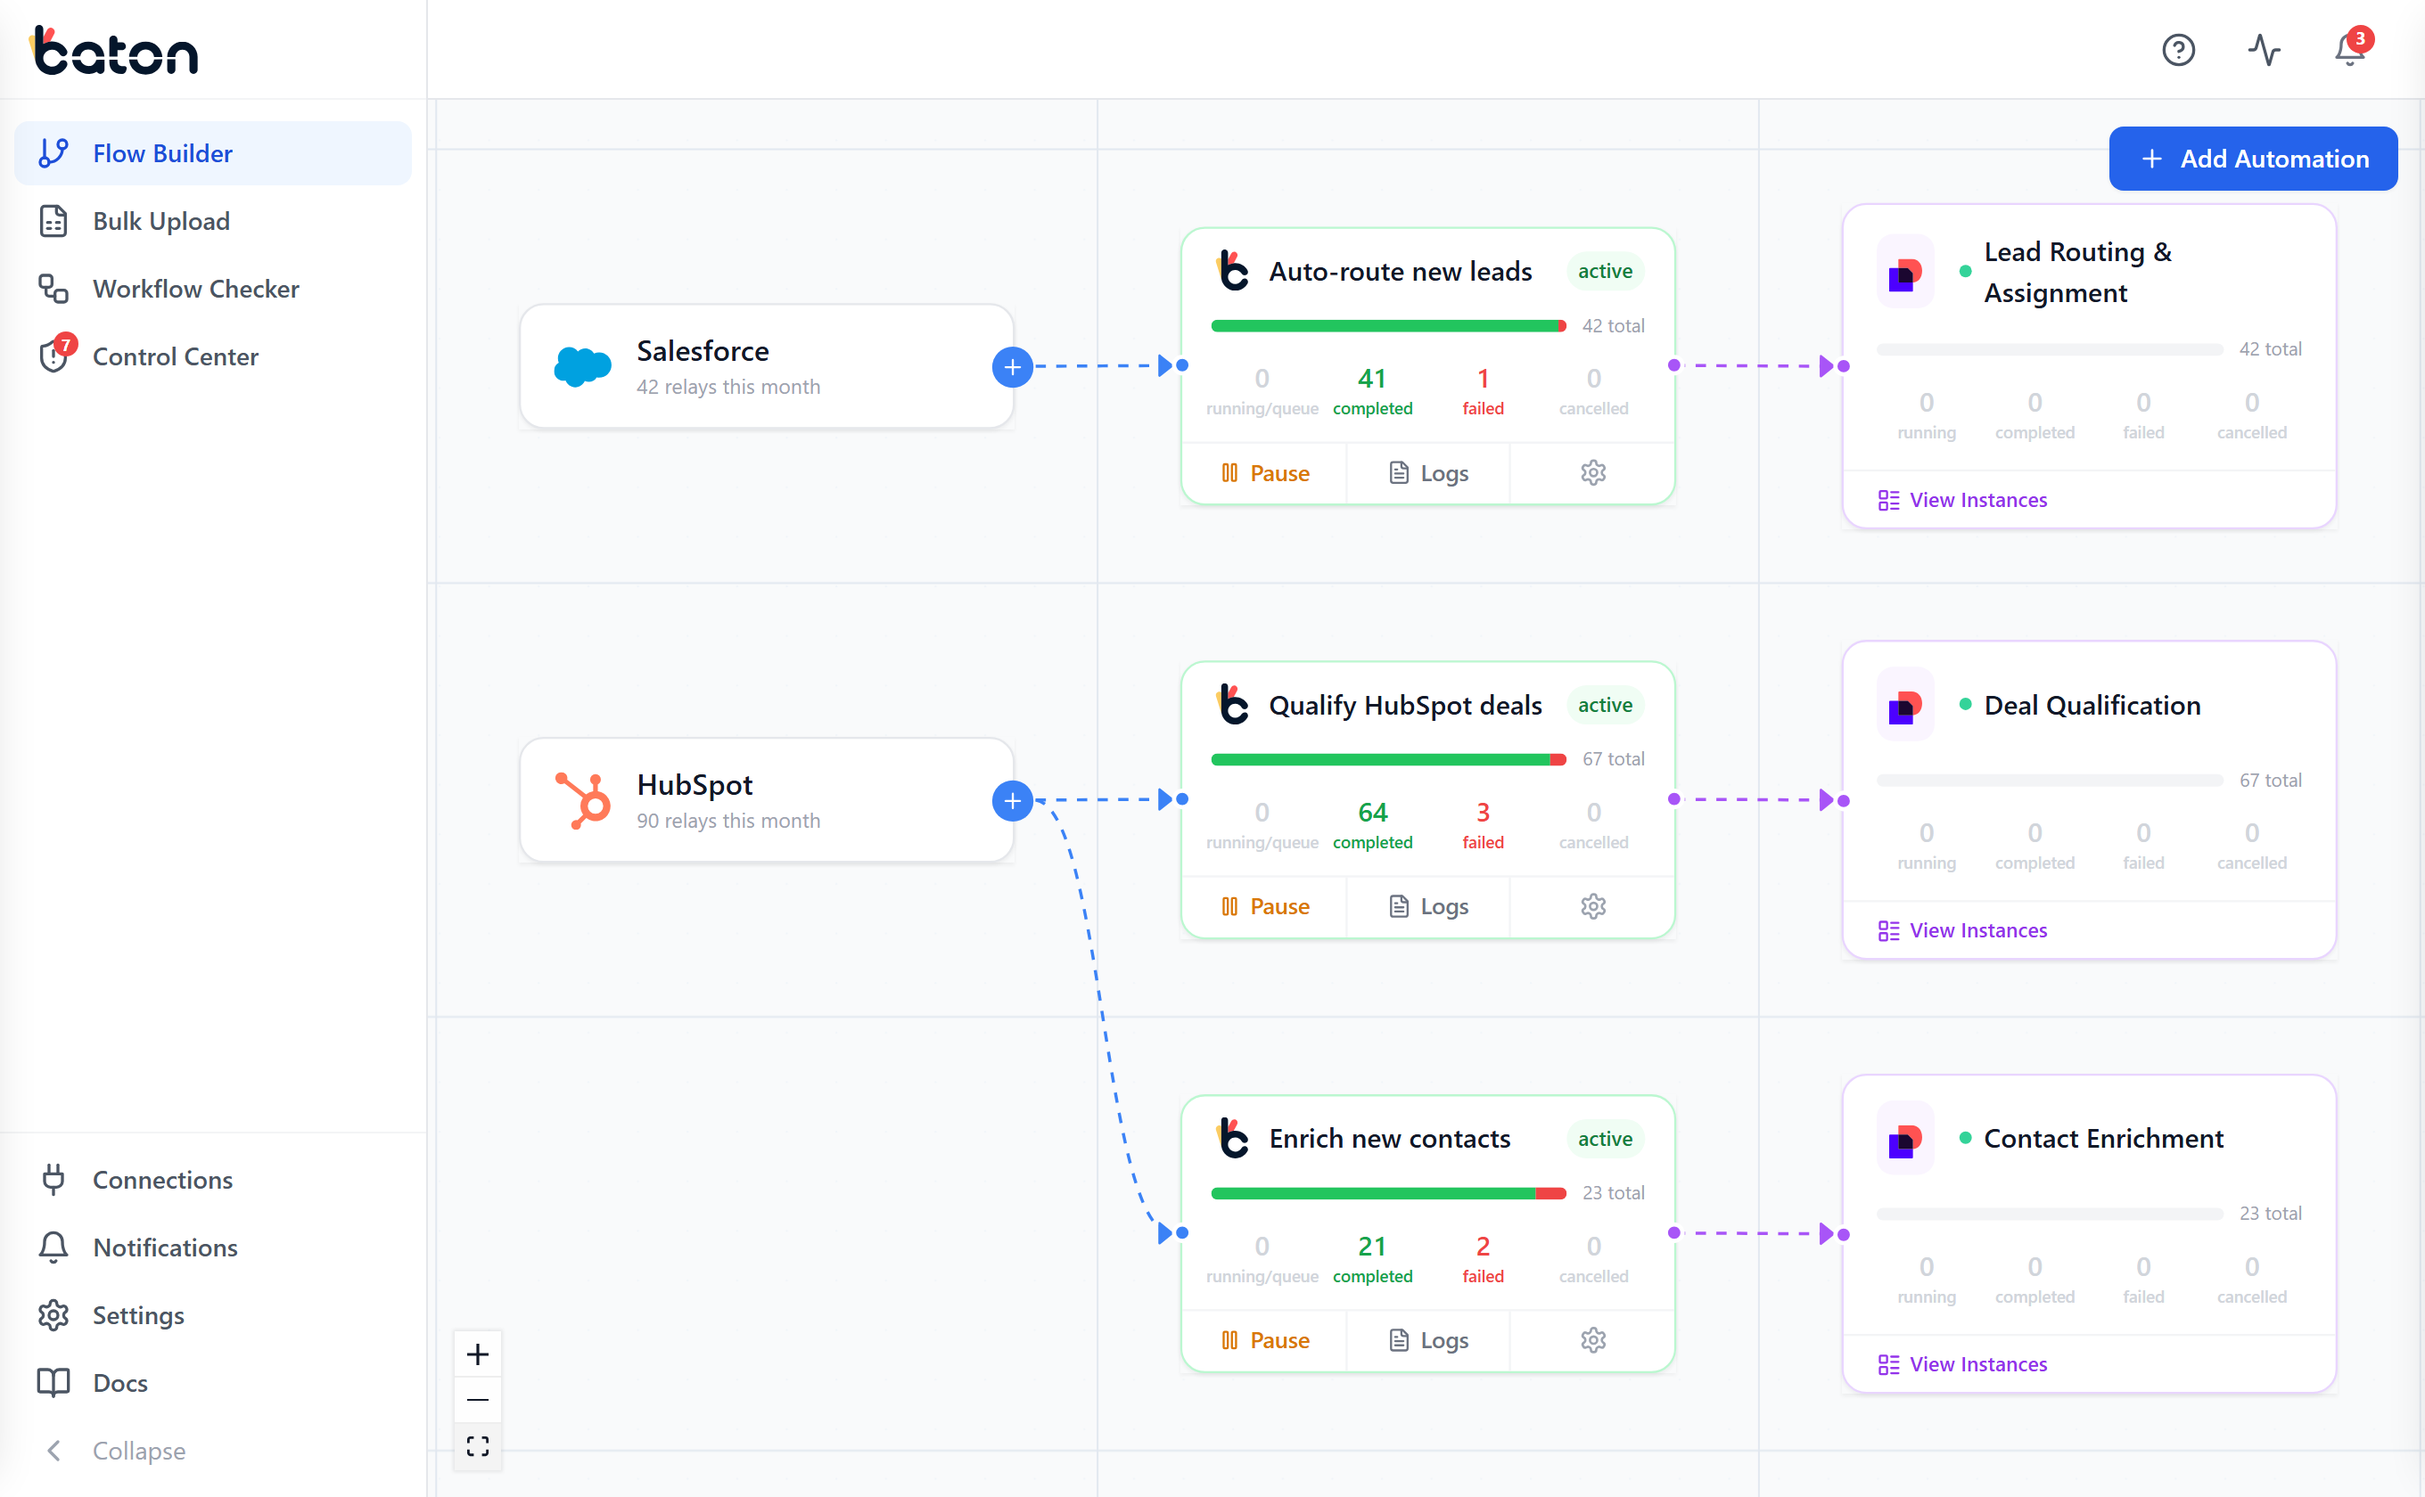
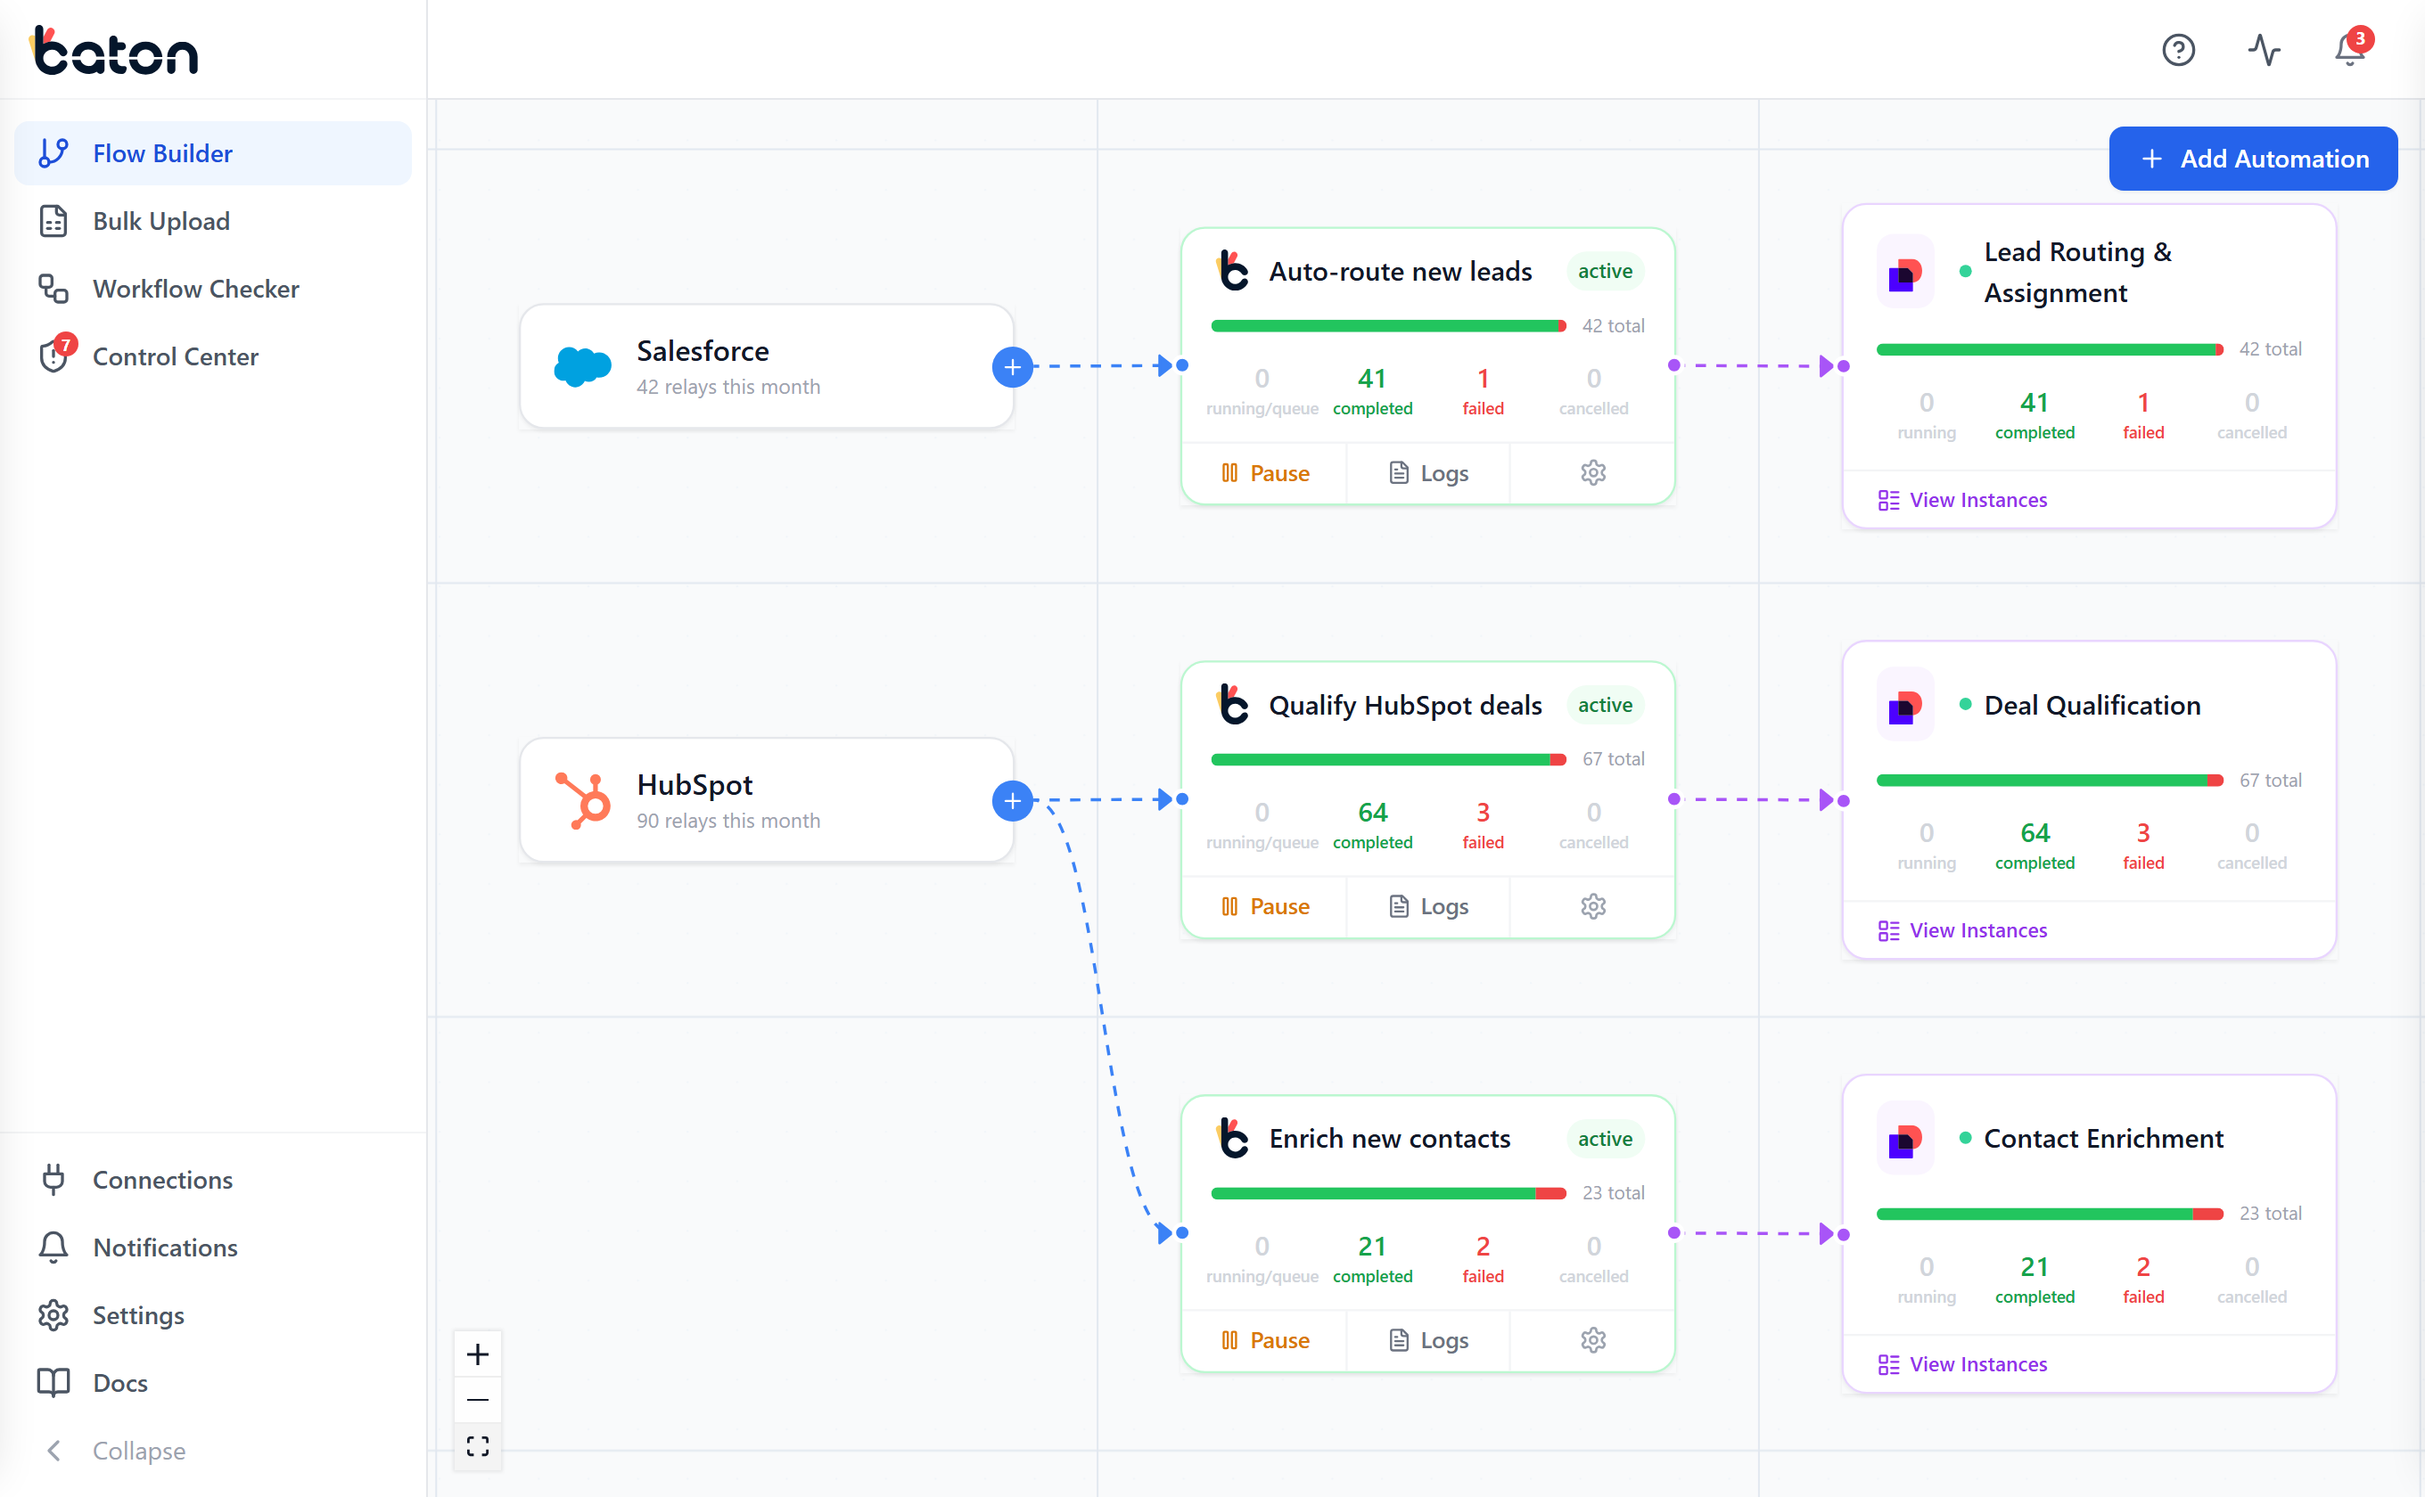
Capture animated product GIFs, and make workflow counts agree
Two fixes to the preview fixtures and a new capture script.

Workflow nodes rendered 0/0/0/0 while the automation feeding them showed
41 completed - the fixtures never served /api/instances/counts, which is
where the canvas gets per-workflow rollups. Added, mirroring the
automation totals so both sides of every edge now agree.

capture-product-gifs.mjs records the real UI and encodes with gifenc:
- flow-builder.gif: the canvas with its live edges
- bulk-upload.gif: the whole path - pick a file, watch the columns
  auto-map to the workflow's parameters, step through rows and review,
  start the run, then open Runs & rows and watch them complete

The run advances on wall-clock time in the mock rather than needing a
dispatcher, so counts genuinely tick up while recording. Frames are
clipped 4:3 to match the stills, so the site can swap between them
without shifting layout.

npm run gifs regenerates both.

diff --git a/baton-front/src/preview/mock-data.ts b/baton-front/src/preview/mock-data.ts
@@ -162,6 +162,77 @@ const batchProcessors = {
   ],
 };
 
+
+// Per-workflow instance rollup. Mirrors the automation totals so the canvas
+// reads consistently: an automation that reports 41 completed is pointed at a
+// workflow that also shows 41.
+const instanceCounts = {
+  counts: {
+    'wf-1': { completed: 41, failed: 1, cancelled: 0, running: 0 },
+    'wf-2': { completed: 64, failed: 3, cancelled: 0, running: 0 },
+    'wf-3': { completed: 21, failed: 2, cancelled: 0, running: 0 },
+  },
+};
+
+
+// ─── Bulk Upload wizard (demo capture) ────────────────────────
+// Enough of the upload → map → run path to drive the marketing capture.
+// The run advances on wall-clock time so rows visibly complete while
+// recording, instead of needing a real dispatcher.
+
+const DEMO_COLUMNS = ['leadId', 'territory', 'source', 'company', 'ownerEmail'];
+
+const DEMO_ROWS = [
+  { leadId: '00Q5f000004Ta1x', territory: 'EMEA - North',  source: 'Renewal', company: 'Northwind Trading',  ownerEmail: 'r.olsen@northwind.example' },
+  { leadId: '00Q5f000004Tb2y', territory: 'AMER - West',   source: 'Renewal', company: 'Cascade Logistics',  ownerEmail: 'm.reyes@cascade.example' },
+  { leadId: '00Q5f000004Tc3z', territory: 'EMEA - South',  source: 'Renewal', company: 'Adriatic Foods',     ownerEmail: 'l.bruno@adriatic.example' },
+  { leadId: '00Q5f000004Td4a', territory: 'APAC - East',   source: 'Renewal', company: 'Kiyomi Robotics',    ownerEmail: 'h.tanaka@kiyomi.example' },
+  { leadId: '00Q5f000004Te5b', territory: 'AMER - East',   source: 'Renewal', company: 'Bayline Insurance',  ownerEmail: 'p.novak@bayline.example' },
+];
+
+const DEMO_TOTAL_ROWS = 248;
+const DEMO_RUN_ID = 'br-demo';
+let demoRunStartedAt: number | null = null;
+
+/** Rows completed so far — one every 220ms once the run starts, capped. */
+function demoCompleted(): number {
+  if (!demoRunStartedAt) return 0;
+  return Math.min(DEMO_TOTAL_ROWS, Math.floor((Date.now() - demoRunStartedAt) / 220));
+}
+
+function demoRunSummary() {
+  const completed = demoCompleted();
+  const running = demoRunStartedAt && completed < DEMO_TOTAL_ROWS ? 3 : 0;
+  return {
+    id: DEMO_RUN_ID, runNumber: 4, fileName: 'renewals-q3.xlsx',
+    status: !demoRunStartedAt ? 'pending' : completed >= DEMO_TOTAL_ROWS ? 'completed' : 'running',
+    totalRows: DEMO_TOTAL_ROWS, selectedRows: DEMO_TOTAL_ROWS,
+    counts: {
+      queued: Math.max(0, DEMO_TOTAL_ROWS - completed - running),
+      running, completed, failed: 0, cancelled: 0, skipped: 0,
+    },
+    startedAt: demoRunStartedAt ? new Date(demoRunStartedAt).toISOString() : undefined,
+    createdByName: 'Alex Rivera',
+  };
+}
+
+/** A window of rows around the completion frontier, so the list visibly moves. */
+function demoRows() {
+  const completed = demoCompleted();
+  const out = [];
+  const start = Math.max(1, completed - 6);
+  for (let n = start; n < start + 14 && n <= DEMO_TOTAL_ROWS; n++) {
+    const d = DEMO_ROWS[(n - 1) % DEMO_ROWS.length];
+    const status = n <= completed ? 'completed' : n <= completed + 3 && demoRunStartedAt ? 'running' : 'queued';
+    out.push({
+      rowNumber: n, seq: n, name: d.company, status, problems: [], data: d,
+      payload: { leadId: d.leadId, territory: d.territory, source: d.source },
+      ...(status !== 'queued' ? { workflowInstanceId: `wfi-${n}`, maestroInstanceId: `m-${n}` } : {}),
+    });
+  }
+  return { rows: out };
+}
+
 // ─── Events ─────────────────────────────────────────────
 
 const events = {
@@ -356,7 +427,8 @@ const MOCK_ROUTES: Record<string, unknown> = {
   '/api/settings/billing': billing,
   '/api/settings/billing/plans': billingPlans,
   '/api/auth/me': authMe,
-  '/api/batch-processors': batchProcessors,
+  '/api/instances/counts': instanceCounts,
+  '/api/batch-processors': batchProcessors, // live run is patched in by the fetch shim
   '/api/apps': apps,
   '/api/apps/catalog': appsCatalog,
   '/api/platforms': installedPlatforms,
@@ -392,6 +464,61 @@ export function installMockFetch() {
       }
 
       // Handle dynamic routes
+
+      // Processor list — swap in the live demo run once one has started.
+      if (path === '/api/batch-processors' && demoRunStartedAt) {
+        const [first, ...rest] = batchProcessors.processors;
+        return new Response(JSON.stringify({
+          processors: [{ ...first, lastRun: demoRunSummary() }, ...rest],
+        }), { status: 200, headers: { 'Content-Type': 'application/json' } });
+      }
+
+
+      // ── Bulk Upload wizard (demo capture) ──────────────────
+      if (path.match(/^\/api\/batch-processors\/[\w-]+\/uploads$/)) {
+        await delay(700); // let the uploading spinner register on camera
+        return new Response(JSON.stringify({
+          runId: DEMO_RUN_ID,
+          columns: DEMO_COLUMNS,
+          totalRows: DEMO_TOTAL_ROWS,
+          blankRowsSkipped: 2,
+          sheetNames: ['Renewals Q3'],
+          sheetName: 'Renewals Q3',
+          preview: DEMO_ROWS.slice(0, 3),
+        }), { status: 200, headers: { 'Content-Type': 'application/json' } });
+      }
+
+      if (path.match(/^\/api\/batch-processors\/[\w-]+\/runs\/[\w-]+\/preflight$/)) {
+        await delay(400);
+        return new Response(JSON.stringify({
+          readyRows: DEMO_TOTAL_ROWS, problemRows: [], unmappedRequired: [],
+          estimatedMinutes: 150, planUsage: { used: null, included: null },
+        }), { status: 200, headers: { 'Content-Type': 'application/json' } });
+      }
+
+      if (path.match(/^\/api\/batch-processors\/[\w-]+\/runs\/[\w-]+\/start$/)) {
+        demoRunStartedAt = Date.now();
+        await delay(250);
+        return new Response(JSON.stringify({ run: demoRunSummary() }), {
+          status: 200, headers: { 'Content-Type': 'application/json' },
+        });
+      }
+
+      if (path.match(/^\/api\/batch-processors\/[\w-]+\/runs\/[\w-]+\/rows$/)) {
+        return new Response(JSON.stringify(demoRows()), {
+          status: 200, headers: { 'Content-Type': 'application/json' },
+        });
+      }
+
+      if (path.match(/^\/api\/batch-processors\/[\w-]+\/runs$/)) {
+        const runs = demoRunStartedAt
+          ? [demoRunSummary(), ...batchProcessors.processors[0].lastRun ? [batchProcessors.processors[0].lastRun] : []]
+          : [batchProcessors.processors[0].lastRun];
+        return new Response(JSON.stringify({ runs }), {
+          status: 200, headers: { 'Content-Type': 'application/json' },
+        });
+      }
+
       if (path.match(/^\/api\/workflows\/[\w-]+\/instances/)) {
         await delay(200);
         return new Response(JSON.stringify({ instances: dashboard.recentInstances.slice(0, 2) }), {
